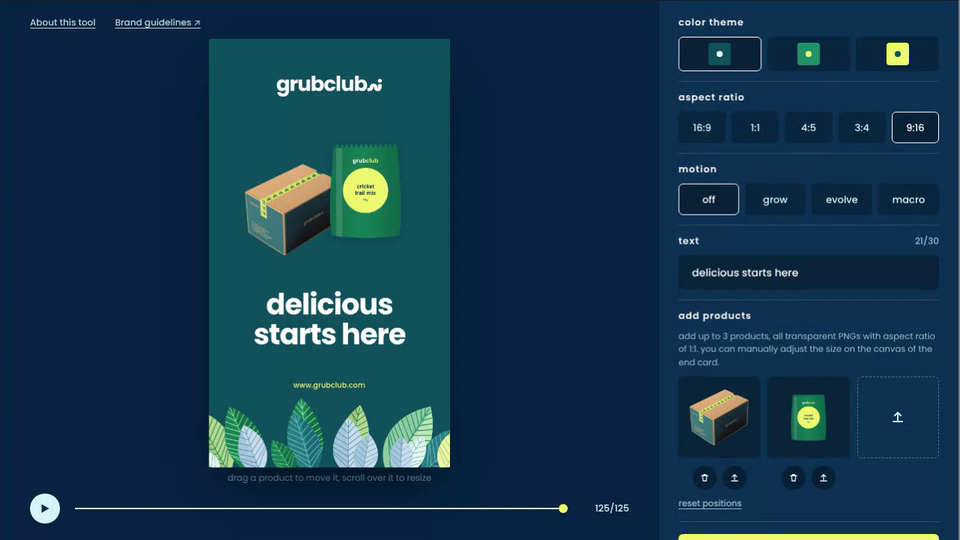
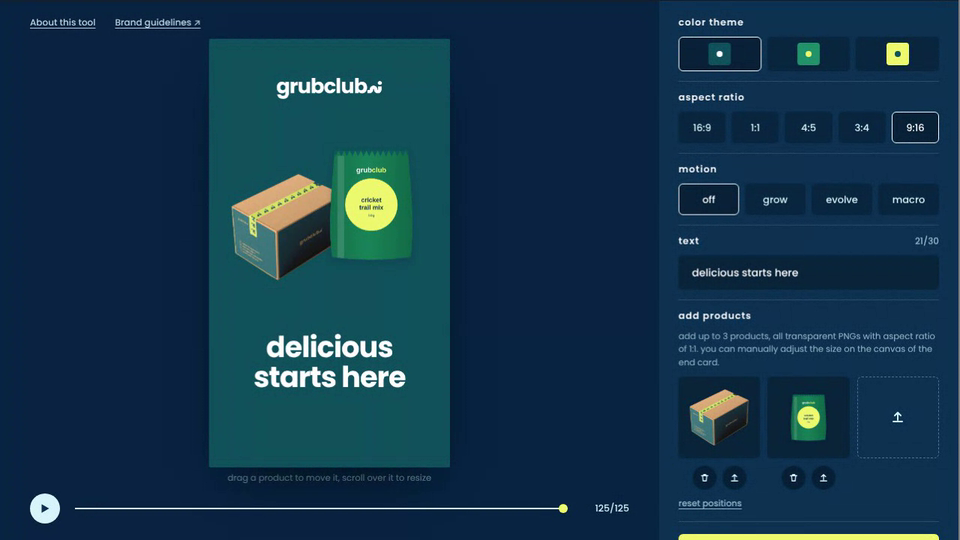
End Card Maker: remove leaves and website link, contextual third motion setting (elasticity, ring count) (#149)
Claude-Session: https://claude.ai/code/session_01AHeBdyiVvLiqirjg3HPEF

Changed region(s): [[0.2188, 0.2667, 0.4688, 0.8889], [0.2812, 0.1481, 0.4062, 0.1778]]

diff --git a/grubclub-end-card/index.html b/grubclub-end-card/index.html
@@ -68,7 +68,9 @@ main{flex:1;min-height:0;display:grid;grid-template-columns:minmax(0,1fr) 400px}
 .mini{width:32px;height:32px;border-radius:50%;border:0;background:rgba(0,0,0,.32);color:var(--egg);display:grid;place-items:center;cursor:pointer;transition:background .2s,color .2s}
 .mini:hover{background:var(--egg);color:var(--navy)}
 .mini svg{width:14px;height:14px;fill:none;stroke:currentColor;stroke-width:2;stroke-linecap:round;stroke-linejoin:round}
-.sl{display:none;gap:14px;margin-top:12px}
+.sl{display:none;flex-wrap:wrap;gap:6px 14px;margin-top:12px}
+.sl label.full{flex:1 1 100%}
+.sl label.full[hidden]{display:none}
 .sl.on{display:flex}
 .sl label{flex:1;display:flex;flex-direction:column;gap:2px;font-size:11.5px;font-weight:500;color:rgba(215,245,250,.75)}
 .sl input{-webkit-appearance:none;appearance:none;width:100%;height:20px;background:none;margin:0;cursor:pointer}
@@ -115,7 +117,7 @@ main{flex:1;min-height:0;display:grid;grid-template-columns:minmax(0,1fr) 400px}
       <div class="row" id="ratios"></div></div>
     <div class="sec"><h2>motion</h2>
       <div class="row" id="motions"></div>
-      <div class="sl" id="msl"><label>speed<input id="mSpeed" type="range" min="0.5" max="2" step="0.05" value="1"></label><label>scale<input id="mScale" type="range" min="0.4" max="1.4" step="0.05" value="1"></label></div></div>
+      <div class="sl" id="msl"><label>speed<input id="mSpeed" type="range" min="0.5" max="2" step="0.05" value="1"></label><label>scale<input id="mScale" type="range" min="0.4" max="1.4" step="0.05" value="1"></label><label id="mThirdL" class="full"><span id="mThirdT">elasticity</span><input id="mThird" type="range" min="1" max="6" step="1" value="2"></label></div></div>
     <div class="sec"><h2>text <em id="cnt">21/30</em></h2>
       <input id="txt" maxlength="30" value="delicious starts here" placeholder="your headline" aria-label="Headline text" autocomplete="off" spellcheck="false"></div>
     <div class="sec"><h2>add products</h2>
@@ -148,7 +150,7 @@ const THEMES=[
 const RATIOS=[['16:9',1920,1080],['1:1',1080,1080],['4:5',1080,1350],['3:4',1080,1440],['9:16',1080,1920]];
 
 /* ---------------- state ---------------- */
-const S={theme:0,ratio:4,motion:0,mspeed:1,mscale:1,text:'delicious starts here',prods:[],speed:1};
+const S={theme:0,ratio:4,motion:0,mspeed:1,mscale:1,melas:2,mrings:5,text:'delicious starts here',prods:[],speed:1};
 let frame=FR, playing=false, last=0, acc=0, exporting=false;
 const wm=new Image(); wm.src=WM_SRC;
 const wmCache={};
@@ -179,48 +181,16 @@ S.prods=[{img:box,name:'entomo box',dx:0,dy:0,sc:1},{img:pouch(),name:'trail mix
 box.onload=()=>{render();tiles()};
 
 /* ---------------- drawing ---------------- */
-/* the brand leaf, ported from the pouch artwork generator: a split-tone blade with fine stripe veins */
-const LS=[{f:'#CFE9E4',g:'#E7F6F2',v:'#5FB0A4'},{f:'#8FCFA0',g:'#BDE8B4',v:'#2E8F7A'},{f:'#2B7F86',g:'#1F6C78',v:'#6DC3B5'},{f:'#1C8859',g:'#167249',v:'#8CE39B'},
- {f:'#EEF6A8',g:'#F8FCCB',v:'#9EC878'},{f:'#A8C7DA',g:'#C9DEEA',v:'#4F8FB5'},{f:'#0F5A5C',g:'#0B4A4F',v:'#3FA0BE'},{f:'#9EC878',g:'#B8DB92',v:'#1C8859'}];
-function leafShape(L,W_,b){
-  const d=`M0 0C${W_} ${-L*.2} ${W_+b*.5} ${-L*.65} ${b} ${-L}C${-W_+b*.5} ${-L*.65} ${-W_} ${-L*.2} 0 0Z`;
-  let v=''; const n=Math.max(4,Math.round(L/31));
-  for(let i=1;i<=n;i++){ const f=i/(n+1), y=-L*f*.93, mx=b*f*f, ew=W_*(.35+.85*Math.sin(Math.PI*Math.min(1,f+.04))); v+=`M${mx} ${y}L${mx+ew} ${y-W_*.8}M${mx} ${y}L${mx-ew} ${y-W_*.8}`; }
-  v+=`M0 0Q${b*.2} ${-L*.5} ${b} ${-L*.97}`;
-  return {p:new Path2D(d),v:new Path2D(v)};
-}
-function leaf(o,grow){
-  if(grow<=0) return;
-  const S_=LS[o.s], L=o.L, W_=o.W, sh=o.sh||(o.sh=leafShape(L,W_,o.b));
-  ctx.save(); ctx.translate(o.x,o.y); ctx.rotate(o.r*Math.PI/180); ctx.scale(grow,grow);
-  ctx.fillStyle=S_.f; ctx.fill(sh.p);
-  ctx.save(); ctx.clip(sh.p); ctx.fillStyle=S_.g; ctx.fillRect(0,-L,W_*2.5,L);
-  ctx.strokeStyle=S_.v; ctx.lineWidth=Math.max(1.5,L/95); ctx.lineCap='butt'; ctx.stroke(sh.v); ctx.restore(); ctx.restore();
-}
-/* a full-width, overlapping collage that grows from the bottom edge: tall deep leaves behind, paler striped ones in front */
-const rng=a=>()=>{a|=0;a=a+0x6D2B79F5|0;let t=Math.imul(a^a>>>15,1|a);t=t+Math.imul(t^t>>>7,61|t)^t;return((t^t>>>14)>>>0)/4294967296};
-const COLL={};
-function collage(W,H,hc,theme){
-  const key=[W,H,Math.round(hc),theme].join(), hit=COLL[key]; if(hit) return hit;
-  const R=rng(11), out=[], drop=[[6],[3],[4]][theme];   // no leaf in the background's own colour
-  const pal=a=>a.filter(x=>!drop.includes(x));
-  const layer=(n,pl,lo,hi,wd,ofs)=>{ for(let i=0;i<n;i++){ const x=(i+.5+(R()-.5)*.7)/n*W+ofs, lean=((x/W)-.5)*90, L=hc*(lo+(hi-lo)*R());
-    out.push({x,y:H+hc*.08,r:lean+(R()-.5)*44,L,W:L*(wd+R()*.07),b:(R()-.5)*.22*L,s:pl[Math.floor(R()*pl.length)]}); } };
-  layer(Math.round(W/(hc*.5)),pal([2,3,6,7,1,3]),.8,1.08,.3,0);
-  layer(Math.round(W/(hc*.62)),pal([5,1,0,7,4,2]),.55,.88,.33,hc*.25);
-  layer(Math.round(W/(hc*.8)),pal([0,4,5,1,3]),.34,.62,.34,-hc*.15);
-  return COLL[key]=out;
-}
 function slots(n){
   return n===1?[[0,0,1]]:n===2?[[-.3,.12,.8],[.3,-.04,1]]:[[-.42,.14,.74],[.42,.14,.74],[0,-.04,1]];
 }
 let ctx, hits=[];
 function layout(W,H){
   const wide=W/H>1.1, m=W*.08;
-  if(wide){ const hc=H*.25, uf=H*.034, uy=H-hc-uf*.9, lf=H*.075, ly=H*.14, top=ly+lf*.75, bot=uy-uf*1.6;
+  if(wide){ const hc=H*.05, uf=0, uy=H-H*.09, lf=H*.075, ly=H*.14, top=ly+lf*.75, bot=uy-uf*1.6;
     return {wide,m,hc,logo:{x:m,y:ly,f:lf,al:'left'},zone:{cx:W*.71,cy:H*.46,s:H*.62},tx:{x:m,y:(top+bot)/2,h:bot-top,w:W*.36,al:'left',max:H*.14,lines:3},url:{x:m,y:uy,f:uf,al:'left'}}; }
-  const hc=Math.min(H*.18,W*.36), uf=W*.03, uy=H-hc*.95-uf*.9, s=Math.min(W*.5,H*.33), cy=H*.365, top=cy+s*.58, bot=uy-uf*1.6;
-  return {wide,m,hc,logo:{x:W/2,y:H*.105,f:W*.085,al:'center'},zone:{cx:W/2,cy,s},tx:{x:W/2,y:(top+bot)/2,h:bot-top,w:W-2*m,al:'center',max:Math.min(W*.12,H*.075),lines:3},url:{x:W/2,y:uy,f:uf,al:'center'}};
+  const hc=H*.045, uf=0, uy=H-H*.075, s=Math.min(W*.58,H*.36), cy=H*.4, top=cy+s*.58, bot=uy-uf*1.6;
+  return {wide,m,hc,logo:{x:W/2,y:H*.11,f:W*.085,al:'center'},zone:{cx:W/2,cy,s},tx:{x:W/2,y:(top+bot)/2,h:bot-top,w:W-2*m,al:'center',max:Math.min(W*.12,H*.075),lines:3},url:{x:W/2,y:uy,f:uf,al:'center'}};
 }
 function wrapText(words,f,w){
   ctx.font=`700 ${f}px Poppins,"Helvetica Neue",Arial,sans-serif`; ctx.letterSpacing=(-0.03*f)+'px';
@@ -243,12 +213,12 @@ function drawMotion(c,f,T,z){
   const TAU=Math.PI*2, ph=f/FR*S.mspeed, sp=S.mspeed, sc=S.mscale;
   c.save(); c.translate(z.cx,z.cy+z.s*.02);
   if(S.motion===1){
-    const R=z.s*sc*(.62+.05*Math.sin(TAU*2*ph))*sine((f-4)*sp/34);
+    const R=z.s*sc*(.62+.05*Math.sin(TAU*S.melas*ph))*sine((f-4)*sp/34);
     if(R>0){ c.fillStyle=T.url; c.beginPath(); c.arc(0,0,R,0,TAU); c.fill(); }
   }else if(S.motion===2){
-    const n=5;
+    const n=S.mrings;
     for(let i=n;i>0;i--){
-      const a=sine((f-2-(n-i)*4)*sp/32), u=.5+.5*Math.sin(TAU*ph-i*.55), morph=1+Math.sin(TAU*2*ph+i*.3)*.05, R=i*z.s*.125*sc*morph*a;
+      const a=sine((f-2-(n-i)*4)*sp/32), u=.5+.5*Math.sin(TAU*ph-i*.55), morph=1+Math.sin(TAU*2*ph+i*.3)*.05, R=i*z.s*(.62/n)*sc*morph*a;
       if(R<=0) continue; c.fillStyle=mixc(T.bg,T.url,.14+.5*u); c.beginPath(); c.arc(0,0,R,0,TAU); c.fill();
     }
   }
@@ -264,8 +234,6 @@ function draw(c,W,H,f,k,collect){
 function scene(c,W,H,f,collect,th){
   ctx=c; const T=THEMES[th], L=layout(W,H);
   c.fillStyle=T.bg; c.fillRect(0,0,W,H);
-  /* leaves */
-  collage(W,H,L.hc,th).forEach((o,k)=>leaf(o,sine((f-2-k*1.1)/30)));
   /* logo */
   { const lf=L.logo.f, a=eob((f-8)/18), o=eo((f-8)/10);
     c.save(); c.globalAlpha=o; c.font=`700 ${lf}px Poppins,"Helvetica Neue",Arial,sans-serif`; c.letterSpacing=(-0.035*lf)+'px'; c.textBaseline='alphabetic';
@@ -305,9 +273,6 @@ function scene(c,W,H,f,collect,th){
         c.globalAlpha=clamp(t*2.2); c.fillText(wd.t,x0+wd.x,base+(1-a)*fs*.9); c.restore(); });
     });
   }
-  /* url */
-  { const a=eo((f-84)/16); if(a>0){ c.save(); c.globalAlpha=a; c.fillStyle=T.url; c.font=`500 ${L.url.f}px Poppins,"Helvetica Neue",Arial,sans-serif`; c.letterSpacing=(.01*L.url.f)+'px'; c.textAlign=L.url.al==='center'?'center':'left'; c.textBaseline='alphabetic';
-    c.fillText('www.grubclub.com',L.url.x,L.url.y+(1-a)*L.url.f*.8); c.restore(); } }
 }
 
 /* ---------------- preview ---------------- */
@@ -334,7 +299,13 @@ $('#themes').innerHTML=THEMES.map((t,i)=>`<button class="opt sw" data-i="${i}" a
 $('#ratios').innerHTML=RATIOS.map((r,i)=>`<button class="opt" data-i="${i}" aria-pressed="${i===S.ratio}">${r[0]}</button>`).join('');
 const MOTIONS=['off','grow','evolve','macro'];
 $('#motions').innerHTML=MOTIONS.map((m,i)=>`<button class="opt" data-i="${i}" aria-pressed="${i===S.motion}">${m}</button>`).join('');
-$('#motions').onclick=e=>{const b=e.target.closest('.opt'); if(!b)return; S.motion=+b.dataset.i; press($('#motions'),S.motion); $('#msl').classList.toggle('on',S.motion>0); render()};
+$('#motions').onclick=e=>{const b=e.target.closest('.opt'); if(!b)return; S.motion=+b.dataset.i; press($('#motions'),S.motion); thirdUI(); render()};
+function thirdUI(){
+  const t=$('#mThird'), m=S.motion; $('#msl').classList.toggle('on',m>0); $('#mThirdL').hidden=!(m===1||m===2);
+  if(m===1){ $('#mThirdT').textContent='elasticity'; t.min=1; t.max=6; t.step=1; t.value=S.melas; }
+  if(m===2){ $('#mThirdT').textContent='ring count'; t.min=2; t.max=8; t.step=1; t.value=S.mrings; }
+}
+$('#mThird').oninput=e=>{ if(S.motion===1) S.melas=+e.target.value; else S.mrings=+e.target.value; render(); };
 $('#mSpeed').oninput=e=>{S.mspeed=+e.target.value; render()};
 $('#mScale').oninput=e=>{S.mscale=+e.target.value; render()};
 function press(box,i){ box.querySelectorAll('.opt').forEach((b,j)=>b.setAttribute('aria-pressed',j===i)); }
